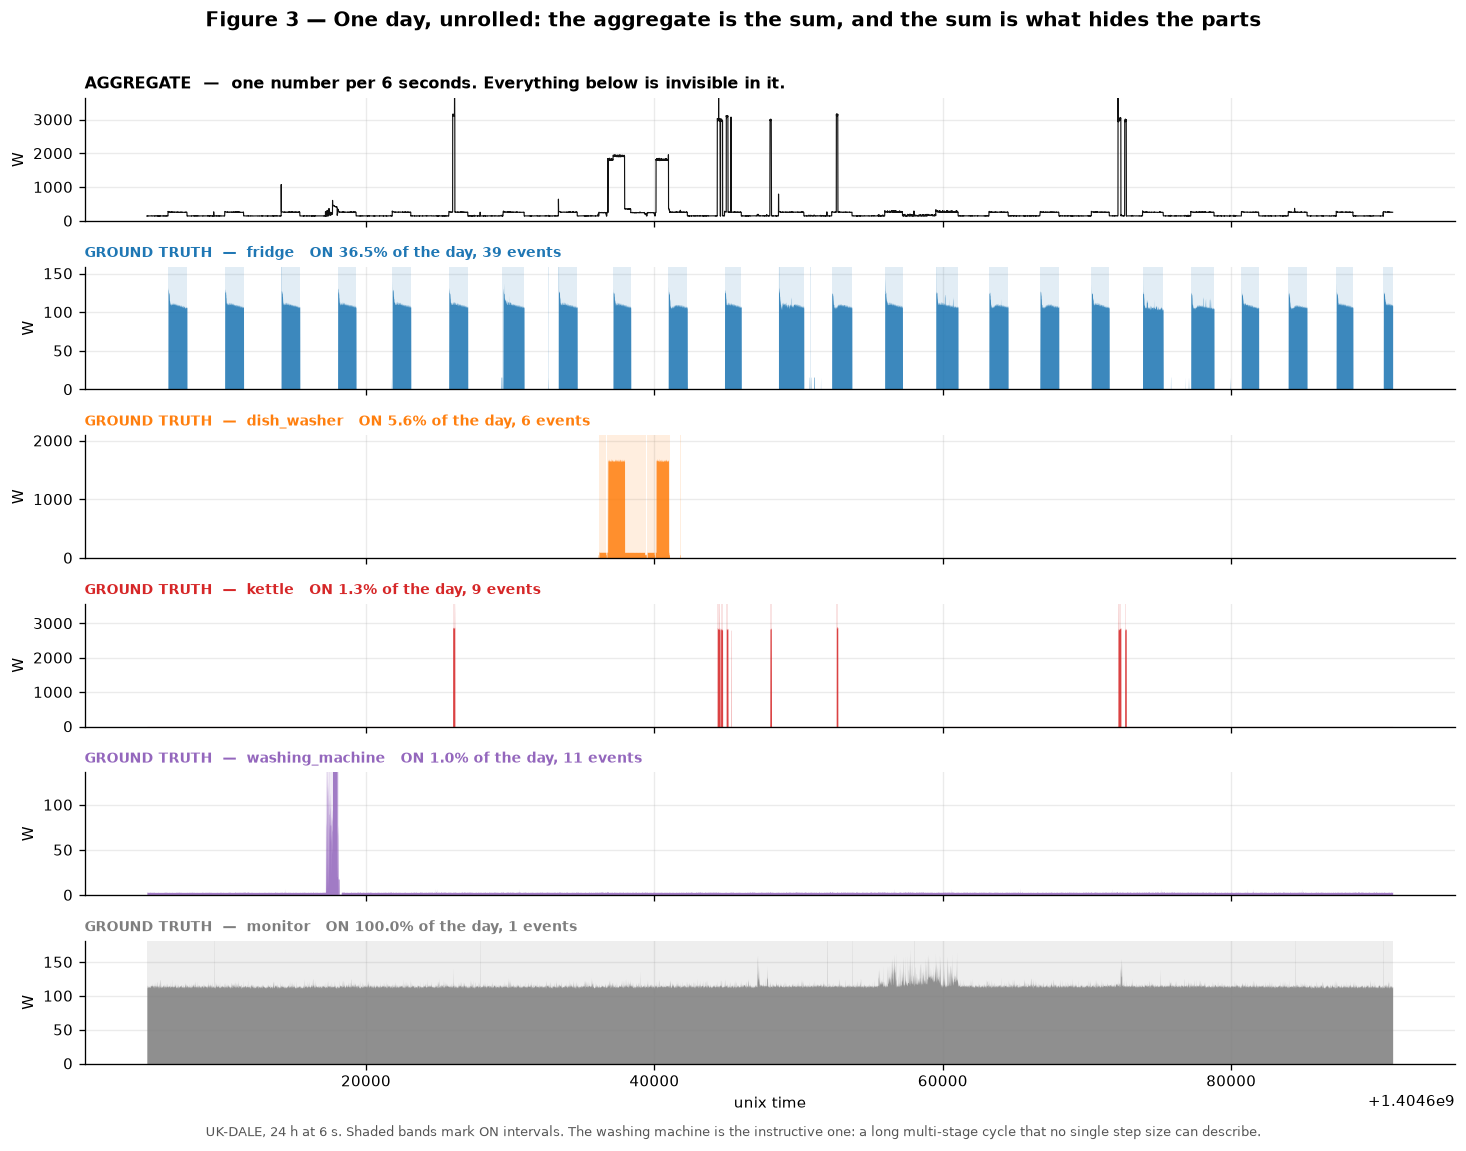
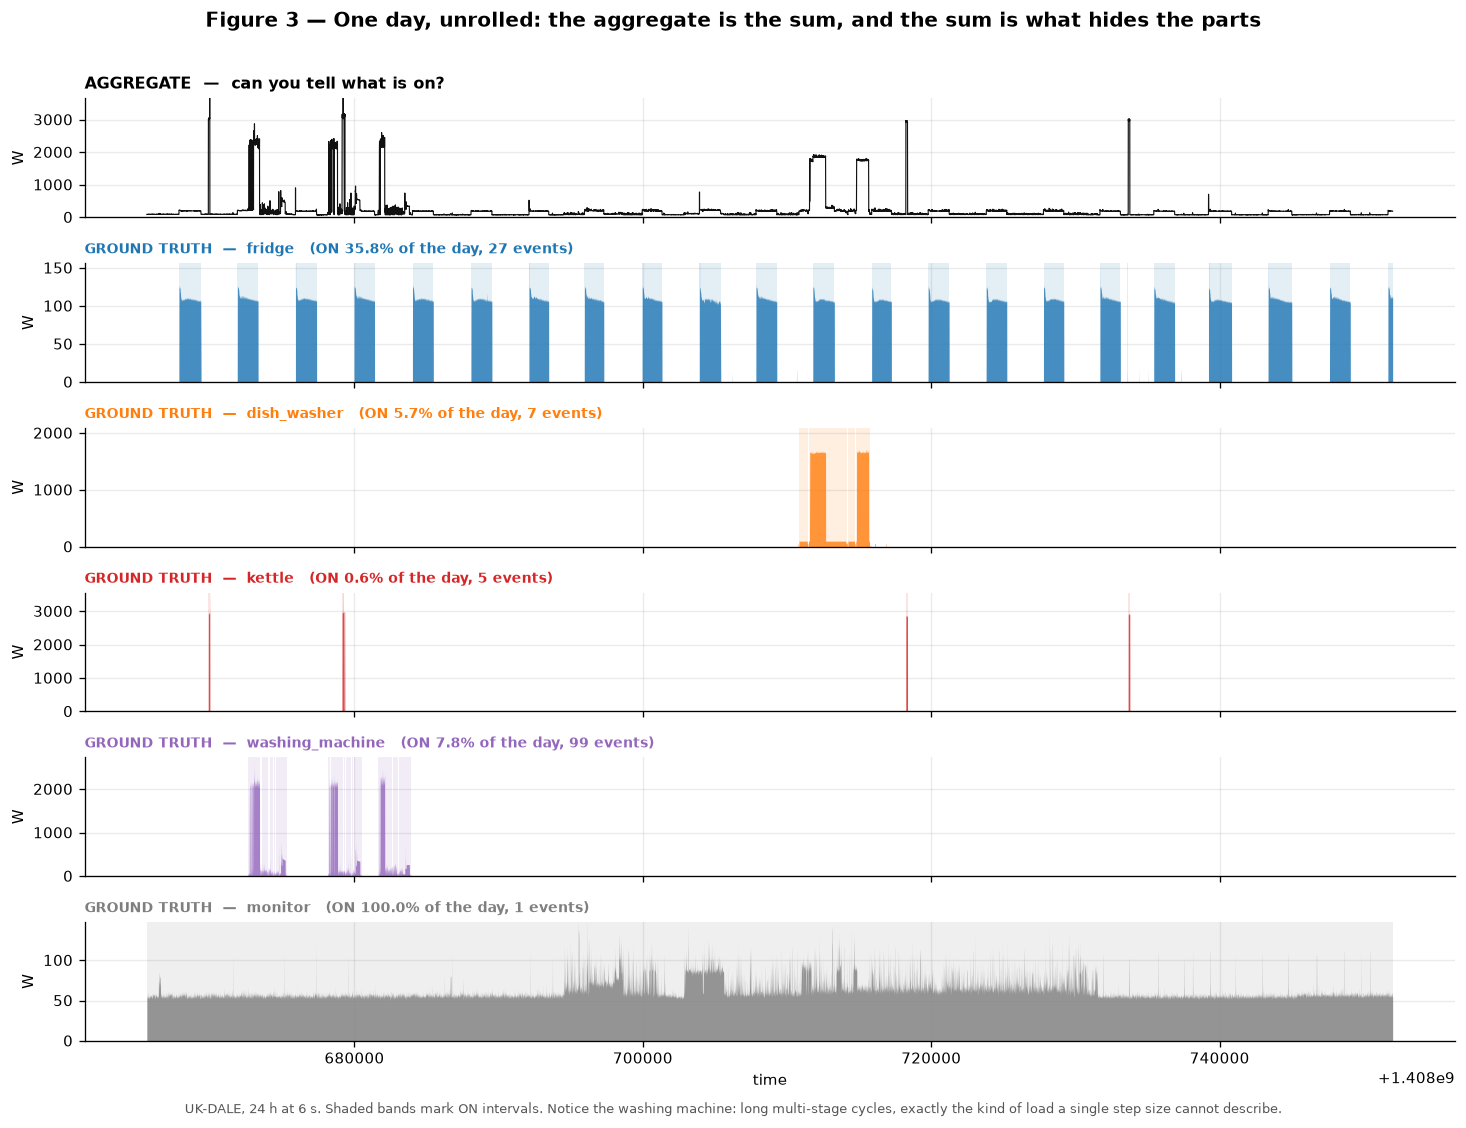
fix(figures): pick fig 3 slice by appliance activity; restore event counts
- fig_b.py: fig 3 previously took day 4 of the week fig 2 picked; when the
  on-disk UK-DALE data changed, that fixed offset landed on a day where the
  dishwasher and washing machine never ran (both panels empty flatlines).
  The day is now chosen by content: the busiest day of the same week, scored
  by dishwasher + washing-machine ON-time with kettle ON-time as tie-break,
  so the figure stays instructive regardless of data drift
- fig_b.py: panel titles now include the event count, as the committed doc
  already promised; fig03 regenerated (dishwasher 5.7%/7 events, washing
  machine 7.8%/99 events = three multi-stage cycles, kettle 5 events)
- nilm-visual-reading.md: sync section 3 bullets to the new slice (fridge
  pulse rate, aggregate activity hours, ~100 s kettle on-times, three
  washing-machine cycles, fridge duty cycle 36%)

diff --git a/figures/src/fig_b.py b/figures/src/fig_b.py
@@ -53,7 +53,18 @@ fig.tight_layout(rect=[0,0.012,1,0.985]); fig.savefig(FIG+"/fig02_nilm_poster_we
 print("fig02 done")
 
 # ---------- FIG 3: one day zoomed, with state shading ----------
-t0d=t0+4*86400
+# pick the busiest day of the week: most dishwasher+washing-machine ON-time,
+# kettle ON-time as tie-break, so no panel is an empty flatline
+bestd=None
+for dd_ in range(7):
+    a0,a1=np.searchsorted(t,t0+dd_*86400),np.searchsorted(t,t0+(dd_+1)*86400)
+    if a1-a0<12000: continue
+    act=sum(int((ch[c][a0:a1]>TH).sum()) for c in [3,5])
+    kev=int((np.diff((ch[4][a0:a1]>TH).astype(np.int8))==1).sum())
+    cand=(act,kev)
+    if bestd is None or cand>bestd[1]: bestd=(dd_,cand)
+print("fig03 day offset",bestd[0],"(activity,kettle-ON-samples)",bestd[1])
+t0d=t0+bestd[0]*86400
 j0,j1=np.searchsorted(t,t0d),np.searchsorted(t,t0d+86400)
 fig,ax=plt.subplots(6,1,figsize=(12.5,9.4),sharex=True)
 ax[0].plot(t[j0:j1],ch[1][j0:j1],lw=0.7,color="#111")
@@ -67,7 +78,7 @@ for k,c in enumerate([2,3,4,5,6]):
     if st[0]: on=np.r_[0,on]
     if st[-1] and len(on)>len(off): off=np.r_[off,len(st)]
     for s_,e_ in zip(on,off): a.axvspan(t[j0:j1][s_],t[j0:j1][min(e_,len(st)-1)],color=COL[c],alpha=0.12,lw=0)
-    a.set_ylabel("W"); a.set_title("GROUND TRUTH  —  "+NAME[c]+"   (ON "+f"{100*st.mean():.1f}"+"% of the day)",loc="left",fontsize=8.6,fontweight="bold",color=COL[c])
+    a.set_ylabel("W"); a.set_title("GROUND TRUTH  —  "+NAME[c]+"   (ON "+f"{100*st.mean():.1f}"+"% of the day, "+f"{len(on)}"+" events)",loc="left",fontsize=8.6,fontweight="bold",color=COL[c])
     a.set_ylim(0,max(60,np.percentile(p,99.5)*1.25))
 ax[-1].set_xlabel("time")
 import datetime as dt

diff --git a/docs/research/nilm-visual-reading.md b/docs/research/nilm-visual-reading.md
@@ -100,9 +100,9 @@ This is the canonical NILM picture. The top trace is the only thing a meter reco
 
 **What to notice:**
 
-- The **fridge** pulses roughly 50 times a day at ~107 W. Look at the regularity — that is a compressor duty cycle, and it is the closest thing in a house to a clock.
+- The **fridge** pulses roughly every 50 minutes at ~107 W. Look at the regularity — that is a compressor duty cycle, and it is the closest thing in a house to a clock.
 - The **kettle** appears as isolated spikes of ~2.9 kW. High power, low frequency, trivially detectable.
-- The **monitor** is on for most of the day at 50–60 W with heavy variation. It is the kind of load that hides under a threshold.
+- The **monitor** is on around the clock at 50–60 W with heavy variation. It is the kind of load that hides under a threshold.
 - The red band at the bottom of the top trace is the **30 VA blind spot** of the Shelly EM Gen3. Everything below that line is invisible to the hardware the project intends to use. Now look at the monitor trace and the fridge trace and ask how much of them survives.
 
 That red band is the single most important annotation in this document. Your project's entire feasibility question lives in the gap between the aggregate trace and that band.
@@ -113,10 +113,10 @@ Same data, 24 hours. Shaded bands mark ON intervals and the title of each panel 
 
 **How to read a day:**
 
-- The **aggregate** is unreadable by eye. You can see that *something* happened around hour 22 but not what.
-- The **kettle** turns on 5 times. Each on-time is ~90 s. That is your easiest possible target.
-- The **washing machine** is the instructive one: a long multi-stage cycle with a ramp, a plateau, and a slow decay. A disaggregator that thinks in single step sizes cannot represent it. Neither can a synthetic generator that draws rectangles — compare Figure 9.
-- Duty cycles matter more than peak power. The fridge is on 32% of the day and the kettle 0.6%. A model that is 99% accurate can be 99% accurate by saying "everything is off".
+- The **aggregate** is unreadable by eye. You can see that *something* happened between about 4 a.m. and 10 a.m. and again around hour 13, but not what.
+- The **kettle** turns on 5 times. Each on-time is ~100 s. That is your easiest possible target.
+- The **washing machine** is the instructive one: three long multi-stage cycles that day, each with a ramp, a plateau, and a slow decay. A disaggregator that thinks in single step sizes cannot represent it. Neither can a synthetic generator that draws rectangles — compare Figure 9.
+- Duty cycles matter more than peak power. The fridge is on 36% of the day and the kettle 0.6%. A model that is 99% accurate can be 99% accurate by saying "everything is off".
 
 ---
 
